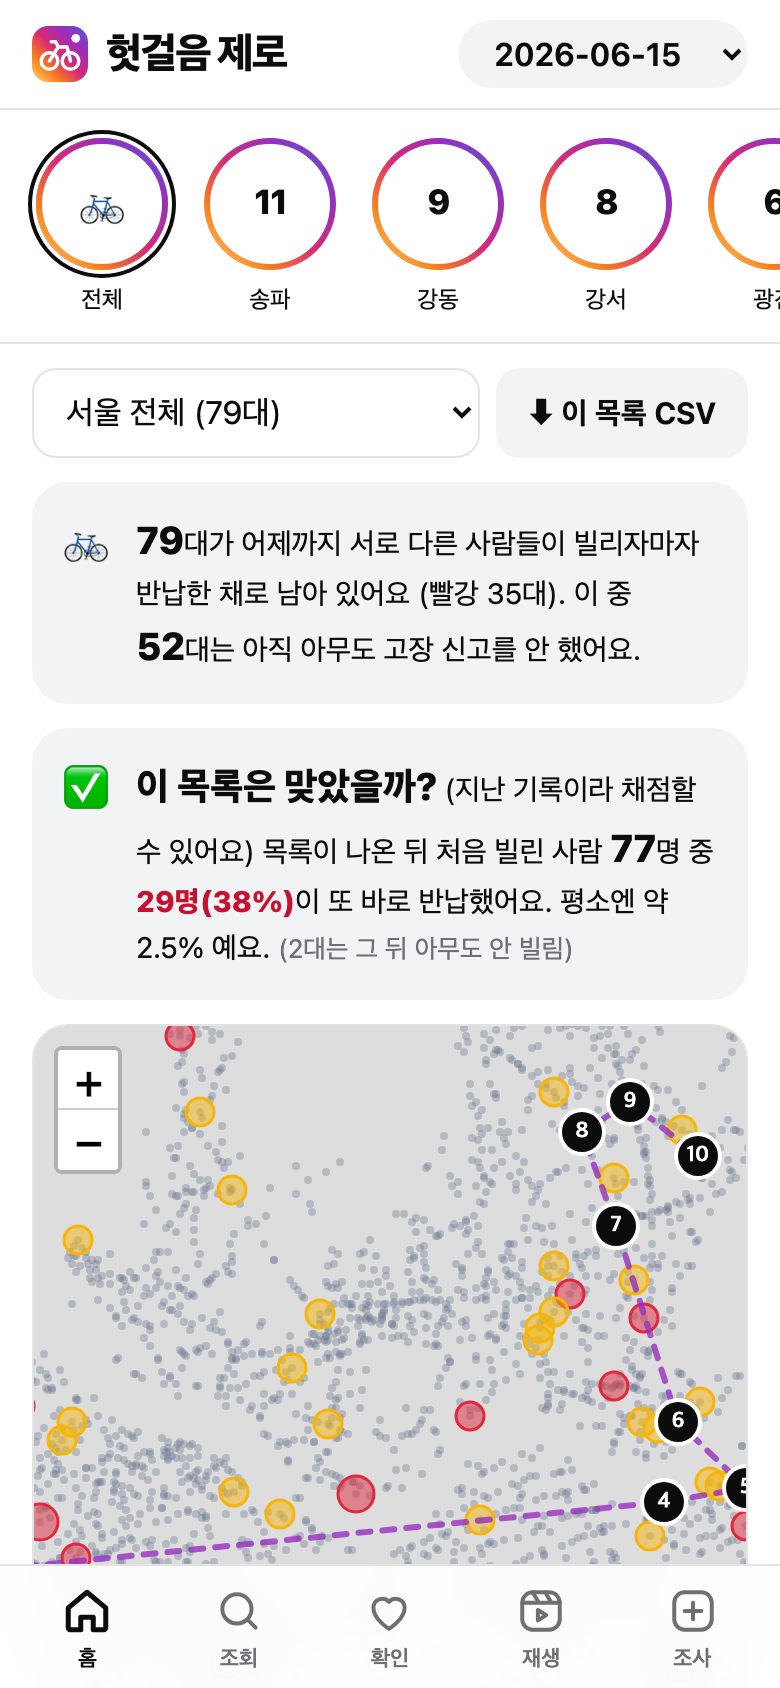
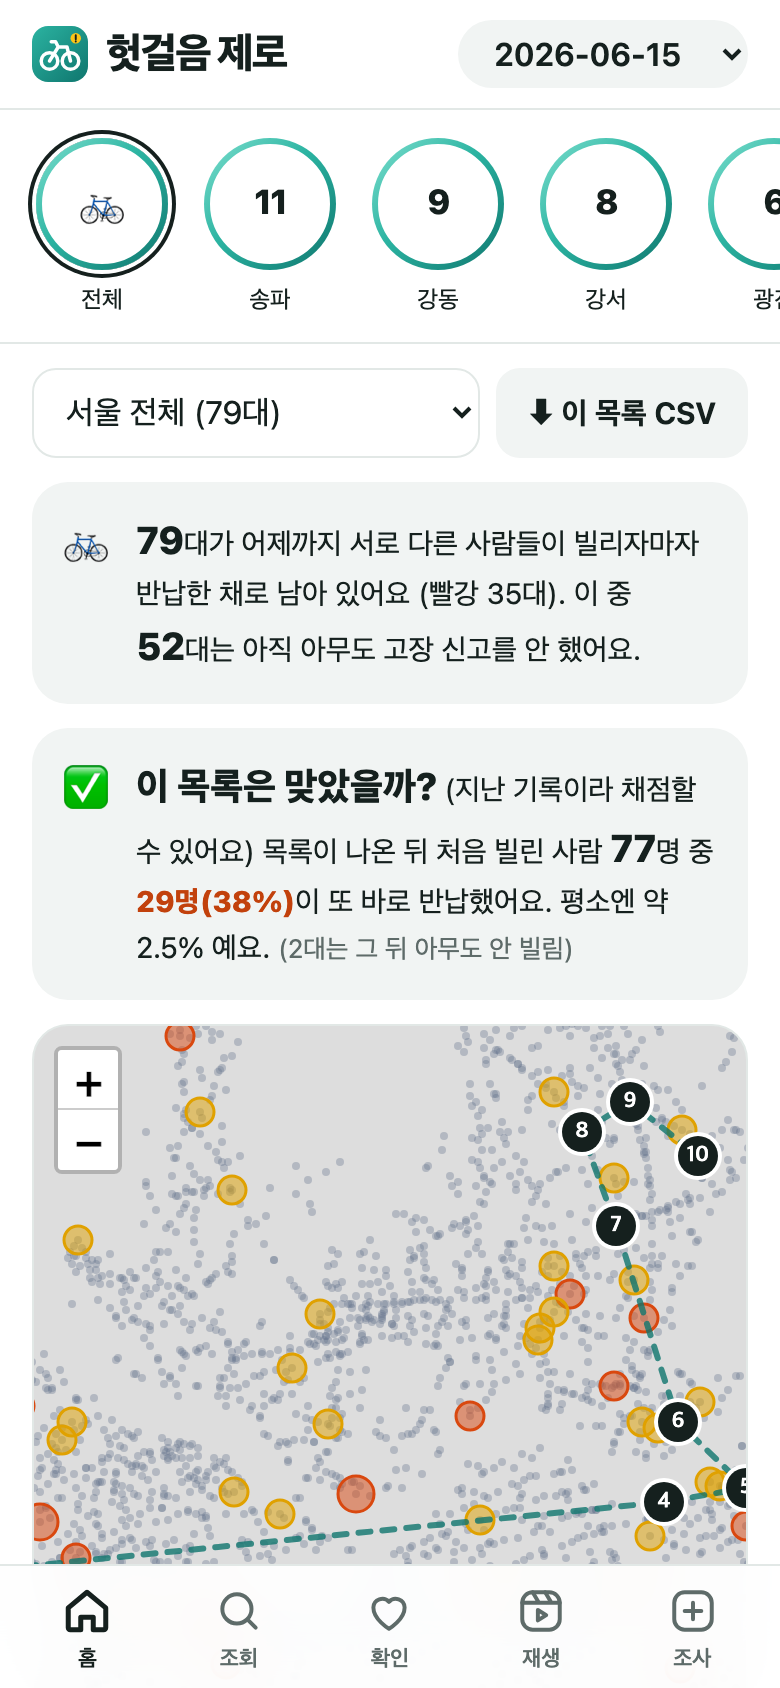
웹앱 색을 우리 청록으로: 인스타그램의 부드러운 모양(둥근 카드·고리 테두리·아래 탭)은 두고 색만 되돌림
- 고리 테두리는 청록 그라데이션, 단추 청록, 어두운 화면 #0d1014
- 아이콘 청록 그라데이션, 지도·재생 점 색도 원래대로
- 화면 검사·오프라인 검사 합격, 앱 화면 사진 다시 만듦

diff --git a/web/style.css b/web/style.css
@@ -1,15 +1,16 @@
-/* 헛걸음 제로 — 인스타그램처럼 친근하고 깔끔하게: 흰 바탕·검은 글자·회색 선, 스토리 고리의 그라데이션, 게시물 카드, 아래 탭 */
+/* 헛걸음 제로 — 부드럽고 친근하게: 둥근 카드·고리 테두리·아래 탭 (색은 우리 청록) */
 :root {
-  --bg: #ffffff; --card: #ffffff; --soft: #f2f3f5; --fg: #0c0c0d; --muted: #6e6e73; --line: #e3e3e6;
-  --blue: #0561d9; --on-blue: #ffffff; --red: #c8102e; --red-soft: #ffe8ea; --yellow: #f5b50a; --yellow-soft: #fff5d6; --good: #1f7a3a; --good-soft: #e5f5e9;
-  --ring: linear-gradient(45deg, #feda75 0%, #fa7e1e 25%, #d62976 50%, #962fbf 75%, #4f5bd5 100%);
-  --shadow: 0 1px 2px rgba(0, 0, 0, .04), 0 6px 20px rgba(0, 0, 0, .06);
+  --bg: #ffffff; --card: #ffffff; --soft: #f1f4f3; --fg: #15201e; --muted: #5e6b69; --line: #e2e8e6;
+  --blue: #0f766e; --on-blue: #ffffff; --red: #c2410c; --red-soft: #fdeee6; --yellow: #e0a100; --yellow-soft: #fff6db; --good: #237032; --good-soft: #e6f4e8;
+  --ring: linear-gradient(135deg, #7ee0cf 0%, #2bb3a1 45%, #0f766e 100%);
+  --shadow: 0 1px 2px rgba(20, 40, 36, .04), 0 6px 20px rgba(20, 40, 36, .06);
   --tabbar: 62px; --glass: rgba(255, 255, 255, 0.94); --on-red: #ffffff; --on-good: #ffffff;
 }
 @media (prefers-color-scheme: dark) {
-  :root { --bg: #000000; --card: #121214; --soft: #1e1e21; --fg: #f5f5f7; --muted: #a8a8ad; --line: #2c2c30;
-          --blue: #5aa9ff; --on-blue: #00152e; --red: #ff6b7a; --red-soft: #3a1318; --yellow: #ffd15c; --yellow-soft: #3a300c; --good: #6fdc8c; --good-soft: #10301a;
-          --shadow: none; --glass: rgba(0, 0, 0, 0.92); --on-red: #2a0006; --on-good: #06200f; }
+  :root { --bg: #0d1014; --card: #161a20; --soft: #1b2027; --fg: #e8ecf1; --muted: #a3adba; --line: #2a3139;
+          --blue: #2cc5b1; --on-blue: #06201d; --red: #fb8b5d; --red-soft: #3a1f15; --yellow: #f2c14e; --yellow-soft: #3a300c; --good: #6fd08c; --good-soft: #15301d;
+          --ring: linear-gradient(135deg, #5eead4 0%, #2cc5b1 50%, #14746a 100%);
+          --shadow: none; --glass: rgba(13, 16, 20, 0.92); --on-red: #2a0e04; --on-good: #06200f; }
 }
 * { box-sizing: border-box; -webkit-tap-highlight-color: transparent; }
 html { -webkit-text-size-adjust: 100%; }
@@ -149,7 +150,7 @@ video { width: calc(100% - 32px); margin: 10px 16px 0; border-radius: 18px; }
   color: #fff; text-shadow: 0 2px 12px rgba(0, 0, 0, .55); pointer-events: none; }
 .legend { font-size: 12.5px; color: var(--muted); margin: 10px 16px; display: flex; gap: 12px; align-items: center; flex-wrap: wrap; }
 .dot { display: inline-block; width: 10px; height: 10px; border-radius: 50%; margin-right: 4px; }
-.dot.r { background: #e0283e; } .dot.g { background: #1f9d4f; } .dot.b { background: #4f5bd5; }
+.dot.r { background: #d9480f; } .dot.g { background: #2b8a3e; } .dot.b { background: #0f766e; }
 .counters { display: grid; grid-template-columns: repeat(4, 1fr); gap: 8px; padding: 0 16px; }
 .counters div { background: var(--soft); border-radius: 16px; padding: 10px 6px; text-align: center; }
 .counters b { display: block; font-size: 22px; font-weight: 800; font-variant-numeric: tabular-nums; }

diff --git a/web/app.js b/web/app.js
@@ -153,7 +153,7 @@ function renderRoute(bikes) {
   if (typeof L === "undefined" || !state.map) return;
   if (state.routeLayer) state.routeLayer.remove();
   state.routeLayer = L.layerGroup().addTo(state.map);
-  L.polyline([start, ...stops].map((p) => [p.lat, p.lon]), { color: "#962fbf", weight: 3, opacity: 0.8, dashArray: "6 6" }).addTo(state.routeLayer);
+  L.polyline([start, ...stops].map((p) => [p.lat, p.lon]), { color: "#0f766e", weight: 3, opacity: 0.8, dashArray: "6 6" }).addTo(state.routeLayer);
   all.forEach((s, i) => L.marker([s.lat, s.lon], { icon: L.divIcon({ className: "route-num", html: String(i + 1), iconSize: [20, 20] }) }).addTo(state.routeLayer));
 }
 
@@ -267,7 +267,7 @@ function renderMap(bikes) {
     const s = state.stations[id];
     if (!s) return;
     const red = arr.some((b) => b.level === "빨강");
-    L.circleMarker([s.lat, s.lon], { radius: 5 + 2 * arr.length, color: red ? "#e0283e" : "#f5b50a", weight: 1.5, fillOpacity: 0.5 })
+    L.circleMarker([s.lat, s.lon], { radius: 5 + 2 * arr.length, color: red ? "#d9480f" : "#e0a100", weight: 1.5, fillOpacity: 0.5 })
       .bindPopup(`<b>${s.name}</b><br>${arr.map((b) => `${b.bike} · ${b.chain}명 연속`).join("<br>")}`)
       .addTo(state.layer);
   });
@@ -372,7 +372,7 @@ function renderRescue() {
 
 // ── 시연
 let replay = null, timer = null, rmap = null, rlayer = null;
-const COLORS = { "경보": "#e0283e", "막을 수 있던 헛걸음": "#1f9d4f", "고장 신고": "#4f5bd5" };
+const COLORS = { "경보": "#d9480f", "막을 수 있던 헛걸음": "#2b8a3e", "고장 신고": "#0f766e" };
 function flash(e) {
   if (!rmap) return;
   const s = state.stations[e.station] || (e.type === "고장 신고" && lastStation[e.bike] && state.stations[lastStation[e.bike]]);

diff --git a/web/index.html b/web/index.html
@@ -4,7 +4,7 @@
 <meta charset="utf-8">
 <meta name="viewport" content="width=device-width,initial-scale=1,viewport-fit=cover">
 <meta name="theme-color" content="#ffffff" media="(prefers-color-scheme: light)">
-<meta name="theme-color" content="#000000" media="(prefers-color-scheme: dark)">
+<meta name="theme-color" content="#0d1014" media="(prefers-color-scheme: dark)">
 <meta name="apple-mobile-web-app-capable" content="yes">
 <meta name="apple-mobile-web-app-title" content="헛걸음 제로">
 <title>헛걸음 제로</title>
